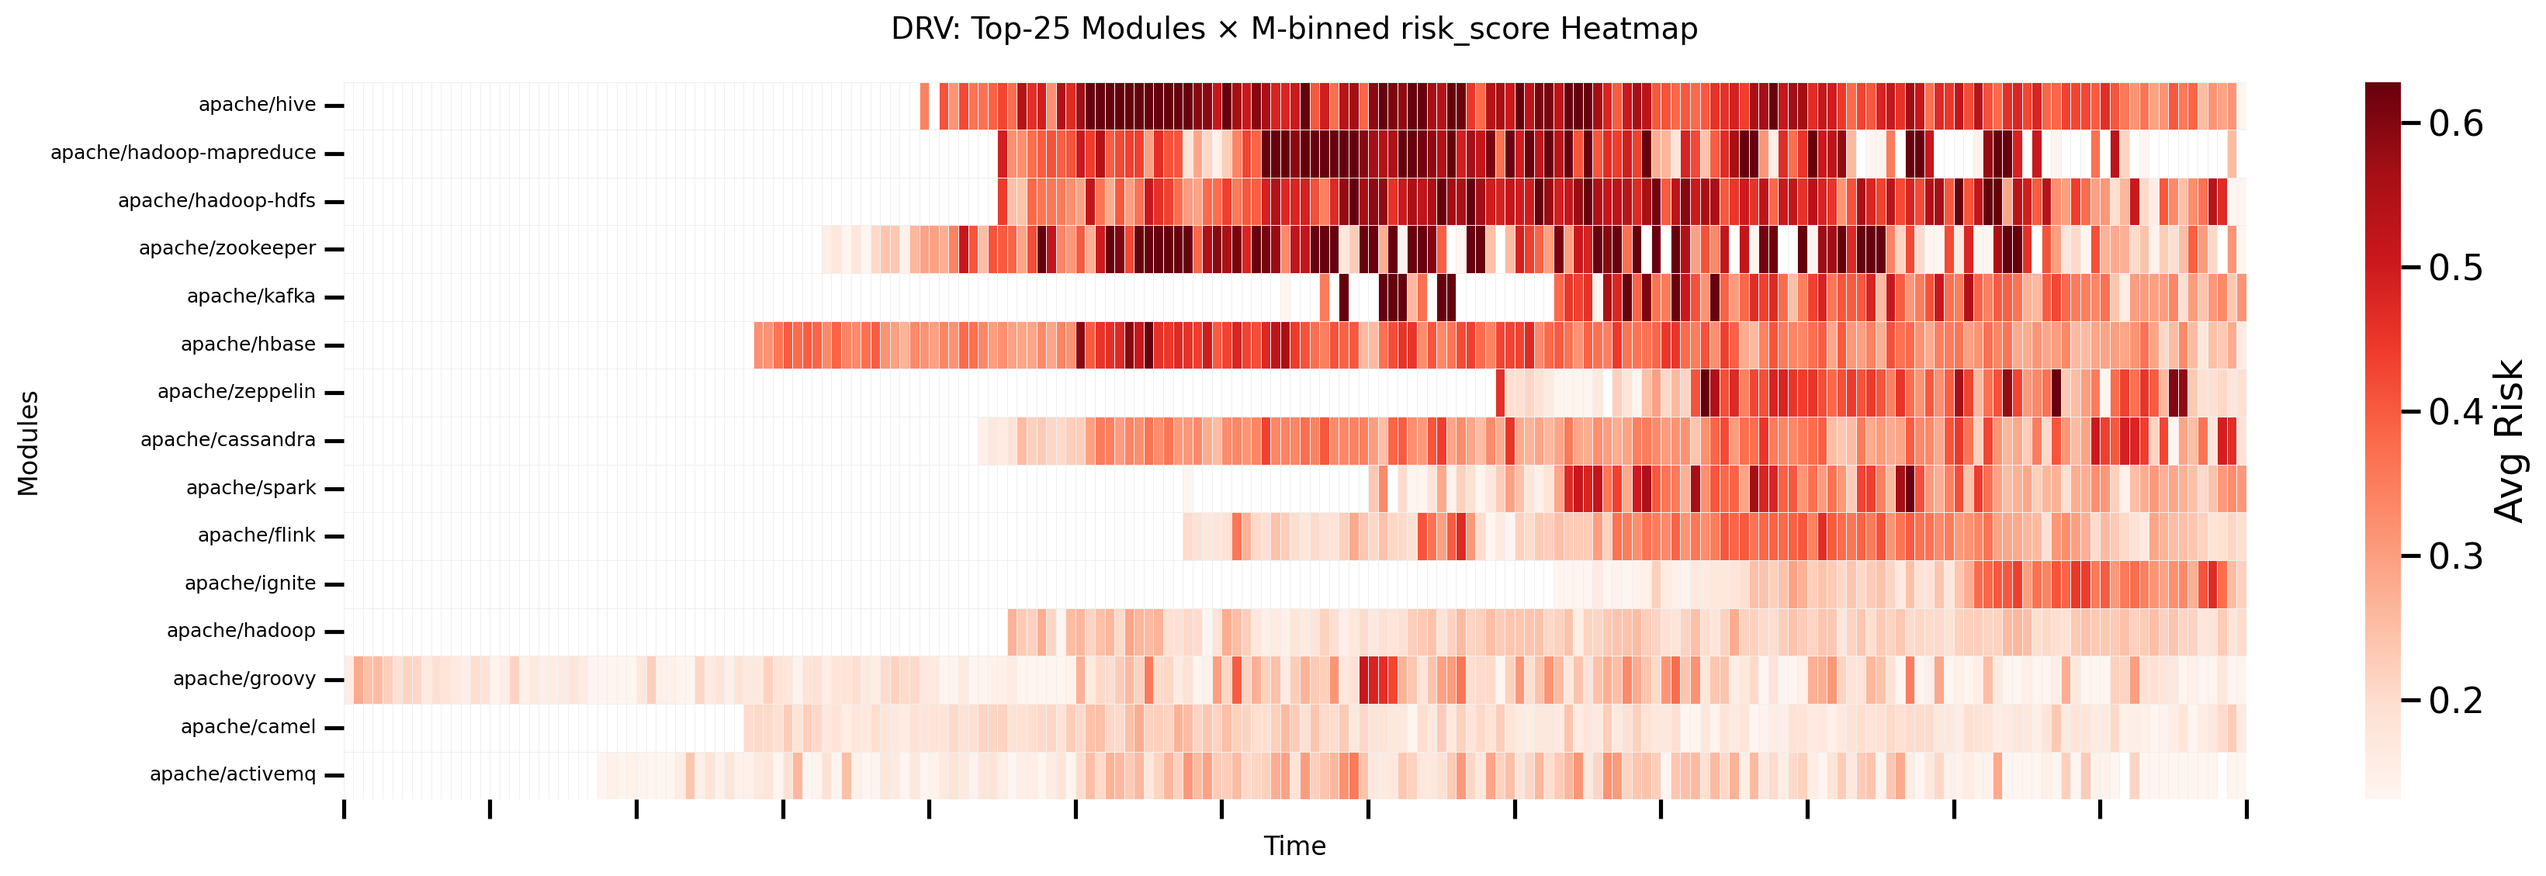
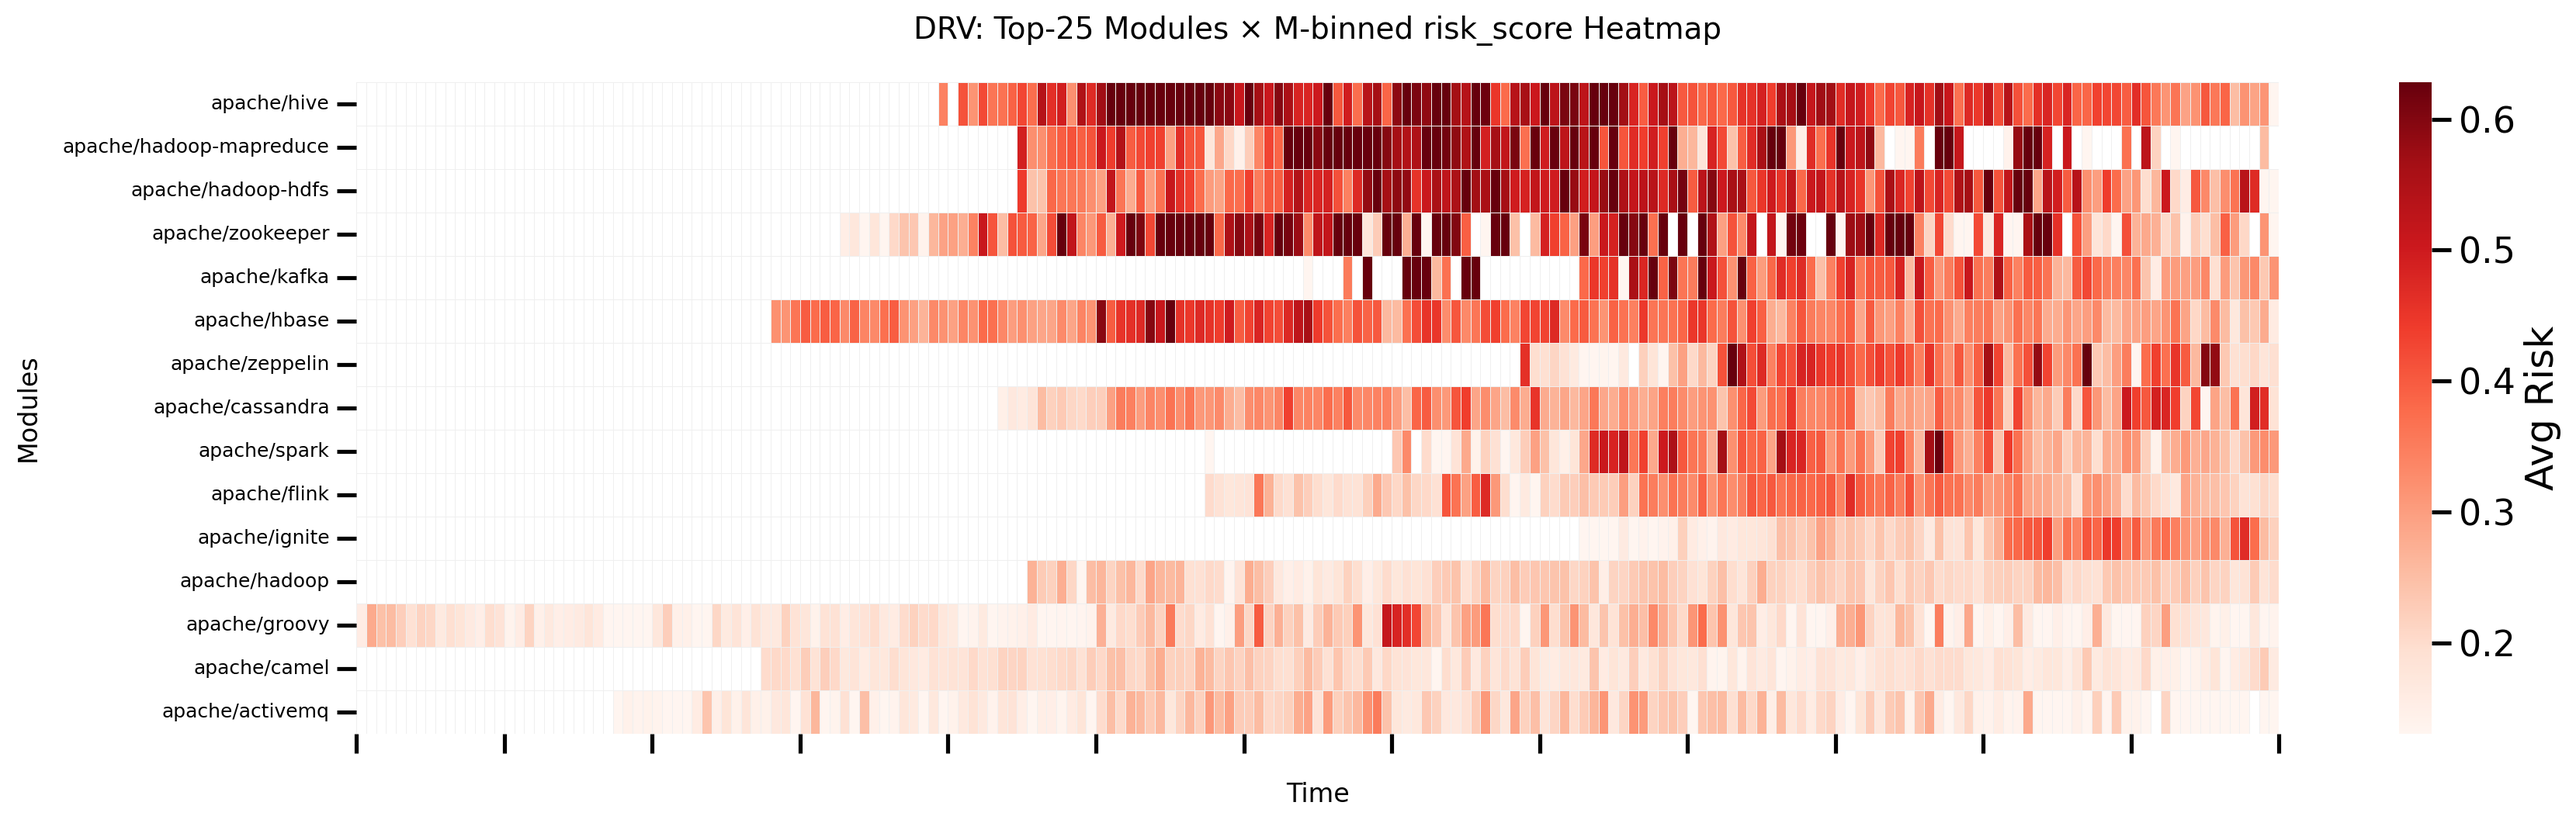
Attempt to Fix Labels

diff --git a/drv/visualize.py b/drv/visualize.py
@@ -79,12 +79,15 @@ def risk_heatmap_binned(
     if pivot.notna().values.any():
         q_low = float(np.nanquantile(pivot.values, clip_quantiles[0]))
         q_hi  = float(np.nanquantile(pivot.values, clip_quantiles[1]))
-        vmin, vmax = (q_low, q_hi) if not np.isclose(q_low, q_hi) else (q_low - 1e-6, q_hi + 1e-6)
+        if np.isclose(q_low, q_hi):
+            vmin, vmax = q_low - 1e-6, q_hi + 1e-6
+        else:
+            vmin, vmax = q_low, q_hi
     else:
         vmin, vmax = 0.0, 1.0
 
     fig_h = max(6, 0.35 * len(pivot))
-    plt.figure(figsize=(18, fig_h))
+    fig = plt.figure(figsize=(18, fig_h))
     ax = sns.heatmap(
         pivot,
         cmap="Reds", vmin=vmin, vmax=vmax,
@@ -92,22 +95,29 @@ def risk_heatmap_binned(
         cbar_kws={"label": "Avg Risk" if value_col != "buggy" else "Bug Rate"},
     )
 
-    plt.title(f"DRV: Top-{max(1, topn)} Modules × {freq}-binned {value_col} Heatmap", fontsize=14, pad=20)
-    plt.xlabel("Time", fontsize=12)
-    plt.ylabel("Modules", fontsize=12)
+    # Title & axis labels
+    ax.set_title(f"DRV: Top-{max(1, topn)} Modules × {freq}-binned {value_col} Heatmap", fontsize=14, pad=20)
+    ax.set_xlabel("Time", fontsize=12, labelpad=10)
+    ax.set_ylabel("Modules", fontsize=12, labelpad=10)
 
-    ax.xaxis.set_major_locator(MaxNLocator(nbins=16))
+    # X tick formatting
+    ax.xaxis.set_major_locator(MaxNLocator(nbins=16))  # limit number of ticks
     plt.xticks(rotation=30, ha="right", fontsize=9)
     xlabels = [lbl.get_text().split("T")[0].split(" ")[0] for lbl in ax.get_xticklabels()]
     if freq.upper() == "Y":
         xlabels = [s[:4] for s in xlabels]
     ax.set_xticklabels(xlabels)
+
+    # Y ticks smaller
     plt.yticks(fontsize=9)
 
-    plt.tight_layout()
+    # Ensure labels are not clipped (no tight_layout here)
+    plt.subplots_adjust(left=0.12, right=0.98, top=0.92, bottom=0.22)
+
     if out_path:
-        plt.savefig(out_path, dpi=200, bbox_inches="tight")
-    plt.close()
+        fig.savefig(out_path, dpi=200, bbox_inches="tight")
+    plt.close(fig)
+
     return pivot
 
 
@@ -128,7 +138,7 @@ def topk_bar(
           .head(max(1, k))
     )
 
-    plt.figure(figsize=(10, max(4, 0.4 * len(df_bar))))
+    fig = plt.figure(figsize=(10, max(4, 0.4 * len(df_bar))))
     sns.barplot(
         data=df_bar,
         x="risk_score", y="module",
@@ -140,8 +150,8 @@ def topk_bar(
     plt.ylabel("Module")
     plt.tight_layout()
     if out_path:
-        plt.savefig(out_path, dpi=200, bbox_inches="tight")
-    plt.close()
+        fig.savefig(out_path, dpi=200, bbox_inches="tight")
+    plt.close(fig)
 
 
 def risk_trend(
@@ -168,7 +178,7 @@ def risk_trend(
          .reset_index()
     )
 
-    plt.figure(figsize=(12, 4))
+    fig = plt.figure(figsize=(12, 4))
     plt.plot(ts["commit_time"], ts[value_col], linewidth=2)
     plt.title(f"Risk Trend (Rolling {window})", fontsize=13)
     plt.xlabel("Time"); plt.ylabel(f"Mean {value_col}")
@@ -177,5 +187,5 @@ def risk_trend(
     plt.xticks(rotation=30, ha="right", fontsize=9)
     plt.tight_layout()
     if out_path:
-        plt.savefig(out_path, dpi=200, bbox_inches="tight")
-    plt.close()
+        fig.savefig(out_path, dpi=200, bbox_inches="tight")
+    plt.close(fig)
